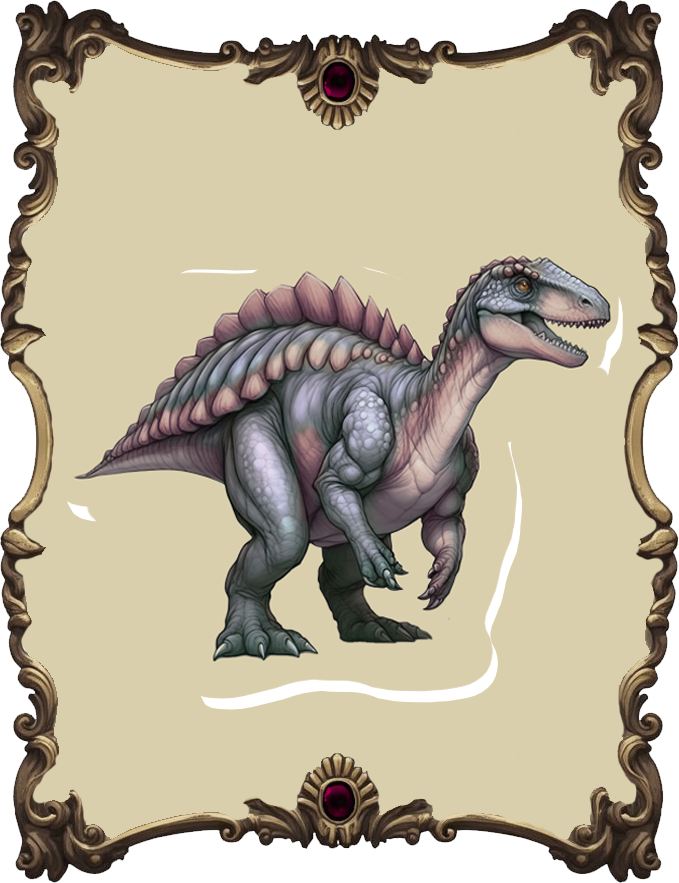
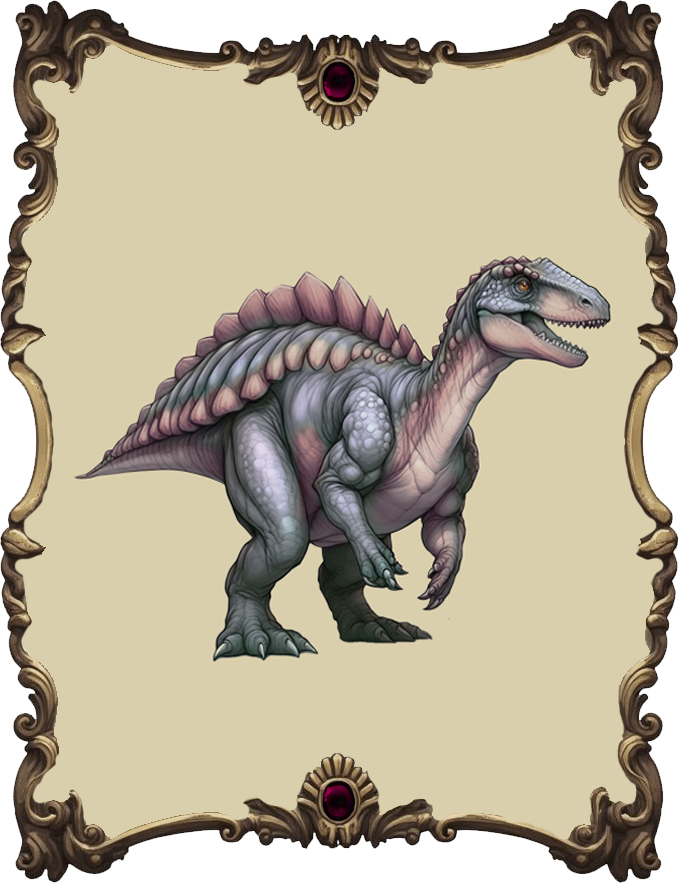
card img update.

diff --git a/src/pages/public/MemoDyn/MemoDyn.css b/src/pages/public/MemoDyn/MemoDyn.css
@@ -115,14 +115,13 @@
 }
 
 .card {
-  width: 12vh;
-  height: 17vh;
+  width: 15vh;
+  height: 20vh;
   border-radius: 10px;
   cursor: pointer;
   transition: transform 0.3s ease;
-  background-size: cover;
+  background-size: contain;
   background-position: center;
-  box-shadow: 0 4px 8px rgba(0, 0, 0, 0.1);
 }
 
 .card:hover {
@@ -276,8 +275,8 @@
   }
 
   .card {
-    width: 9vh;
-    height: 14vh;
+    width: 10vh;
+    height: 16vh;
   }
 
   .game-header {
